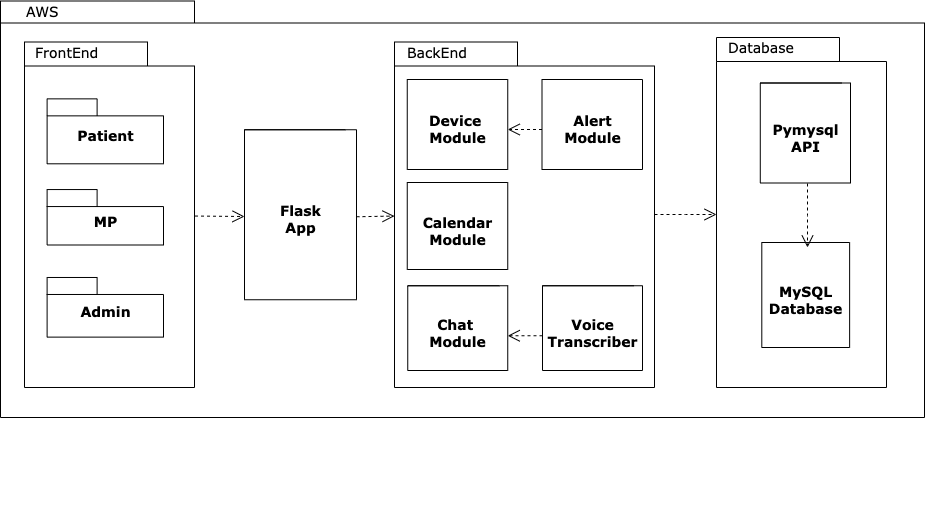
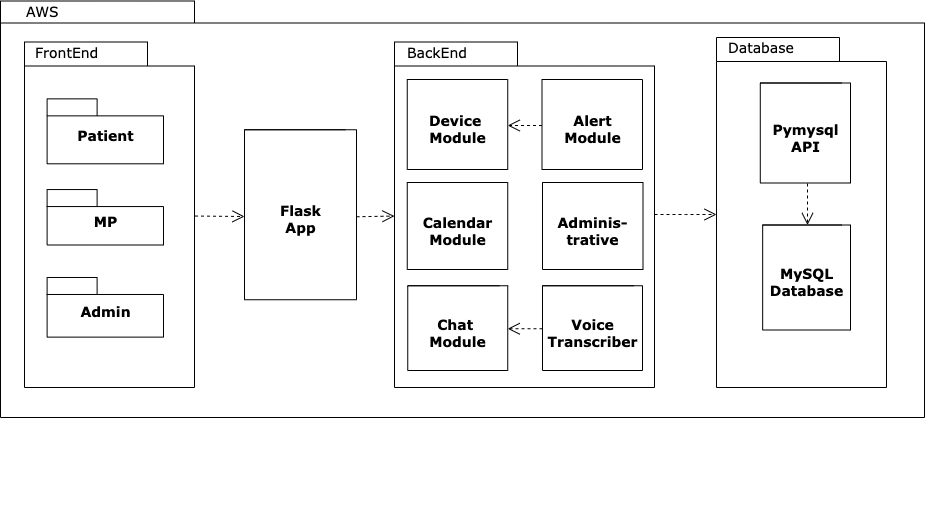
update readme

Changed region(s): [[0.8064, 0.4324, 0.9305, 0.6486], [0.5893, 0.4015, 0.6824, 0.4942], [0.5273, 0.6178, 0.5583, 0.6486]]

diff --git a/README.md b/README.md
@@ -42,8 +42,7 @@ Messages received will be displayed at the left side of the screen while message
 ### Phase 5 (Final Project)
 This phase is completed together with teammate evezhang@bu.edu
 
-All commits of phase 5 are in branch `Phase5` (now it's merged to `main` branch but not deleted).  
-`Phase 5` builds other functionality like calendar module and voice transcriber module on the basis of `Phase 4`. In the calendar module, patient can make an appointment with MP. Meanwhile, MP can see all the appointments from the patients.
+All commits of phase 5 are in branch Phase5 (now it's merged to the main branch but not deleted). In`Phase 5` we add an Administrator to add and manage users to our systems. Furthermore, the Administrator can assign and change users' roles. In addition, we built three more functionalities based on `Phase 4` such as the calendar module,  voice transcriber module and alert module.
 
 
 
